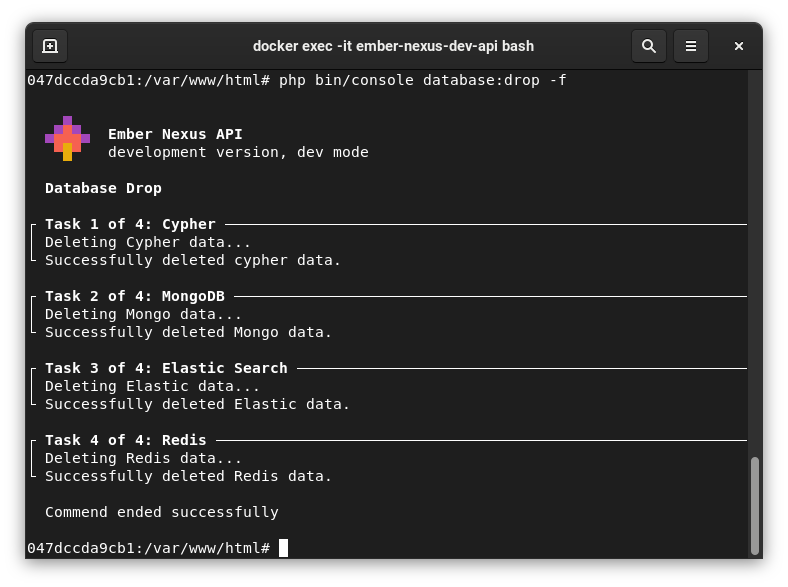
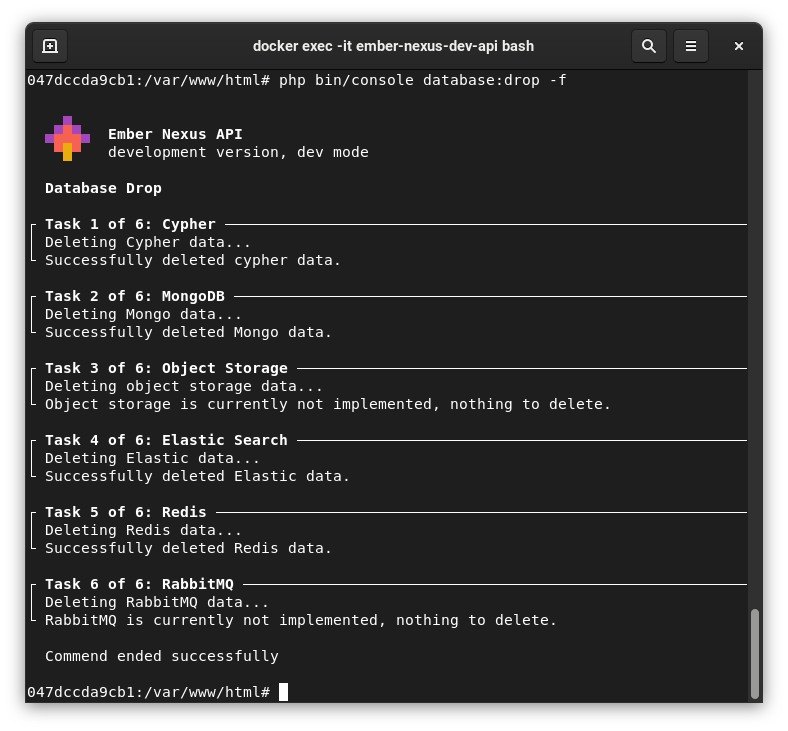
Add object storage and rabbit mq placeholders to database:drop command

diff --git a/src/Command/DatabaseDropCommand.php b/src/Command/DatabaseDropCommand.php
@@ -67,9 +67,13 @@ class DatabaseDropCommand extends Command
 
         $this->deleteMongo();
 
+        $this->deleteObjectStorage();
+
         $this->deleteElastic();
 
         $this->deleteRedis();
+
+        $this->deleteRabbitMQ();
 
         $this->io->writeln('  Commend ended successfully');
         $this->io->newLine();
@@ -79,7 +83,7 @@ class DatabaseDropCommand extends Command
 
     private function deleteCypher(): void
     {
-        $this->io->startSection('Task 1 of 4: Cypher');
+        $this->io->startSection('Task 1 of 6: Cypher');
         $this->io->writeln('Deleting Cypher data...');
         $this->cypherEntityManager->getClient()->runStatement(
             Statement::create('MATCH (n) DETACH DELETE n')
@@ -89,7 +93,7 @@ class DatabaseDropCommand extends Command
 
     private function deleteMongo(): void
     {
-        $this->io->startSection('Task 2 of 4: MongoDB');
+        $this->io->startSection('Task 2 of 6: MongoDB');
         $this->io->writeln('Deleting Mongo data...');
         $mongoDatabase = $this->mongoEntityManager->getDatabase();
         if ($mongoDatabase) {
@@ -98,9 +102,17 @@ class DatabaseDropCommand extends Command
         $this->io->stopSection('Successfully deleted Mongo data.');
     }
 
+    private function deleteObjectStorage(): void
+    {
+        $this->io->startSection('Task 3 of 6: Object Storage');
+        $this->io->writeln('Deleting object storage data...');
+        // todo
+        $this->io->stopSection('Object storage is currently not implemented, nothing to delete.');
+    }
+
     private function deleteElastic(): void
     {
-        $this->io->startSection('Task 3 of 4: Elastic Search');
+        $this->io->startSection('Task 4 of 6: Elastic Search');
         $this->io->writeln('Deleting Elastic data...');
         $rawIndices = $this->elasticEntityManager->getClient()->cat()->indices(['index' => '*'])->asString();
         $rawIndices = explode("\n", $rawIndices);
@@ -119,9 +131,17 @@ class DatabaseDropCommand extends Command
 
     private function deleteRedis(): void
     {
-        $this->io->startSection('Task 4 of 4: Redis');
+        $this->io->startSection('Task 5 of 6: Redis');
         $this->io->writeln('Deleting Redis data...');
         $this->redisClient->flushdb();
         $this->io->stopSection('Successfully deleted Redis data.');
+    }
+
+    private function deleteRabbitMQ(): void
+    {
+        $this->io->startSection('Task 6 of 6: RabbitMQ');
+        $this->io->writeln('Deleting RabbitMQ data...');
+        // todo
+        $this->io->stopSection('RabbitMQ is currently not implemented, nothing to delete.');
     }
 }

diff --git a/src/Style/EonStyle.php b/src/Style/EonStyle.php
@@ -52,7 +52,9 @@ class EonStyle extends SymfonyStyle
         }
         $envVersion = getenv('VERSION');
         if (is_string($envVersion)) {
-            $versionString = 'v'.preg_replace('/[^0-9.]/', '', $envVersion);
+            if ($envVersion) {
+                $versionString = 'v'.preg_replace('/[^0-9.]/', '', $envVersion);
+            }
         }
         $this->newLine();
         $this->writeln(sprintf(
@@ -85,7 +87,7 @@ class EonStyle extends SymfonyStyle
     }
 
     /**
-     * @param iterable<string>|string $messages
+     * @param iterable<mixed, mixed>|string $messages
      *
      * @psalm-suppress ParamNameMismatch
      */
